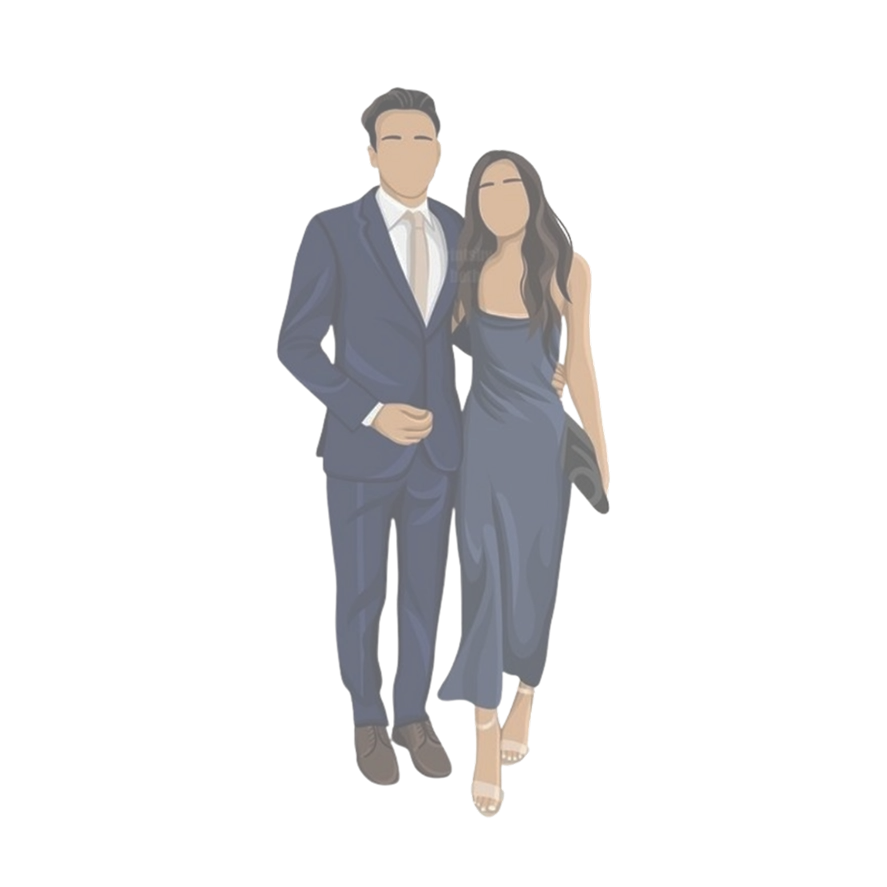
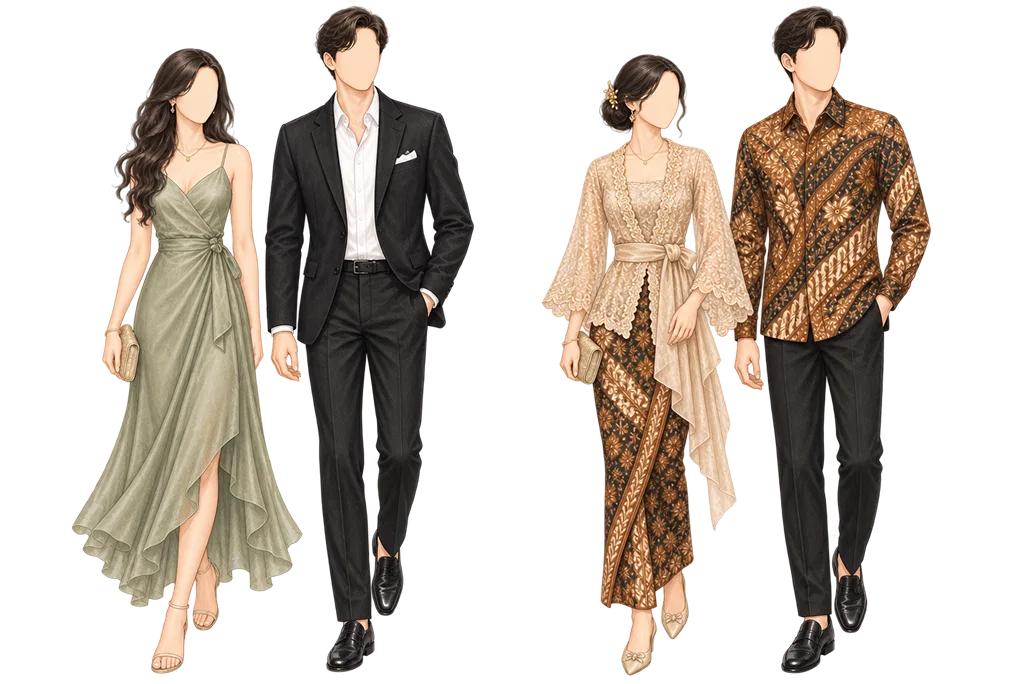
update section dresscode template atettrisna

diff --git a/src/app/[id]/page.tsx b/src/app/[id]/page.tsx
@@ -10,22 +10,15 @@ import { useEventContent } from "@/hooks/api/useEventContent";
 import { useEventSessionByPin } from "@/hooks/api/useEventSessionByPin";
 import { useCurrentGuest } from "@/hooks/api/useCurrentGuest";
 import { getTemplateNameFromId } from "@/lib/templateMap";
-import AtetHalim from "@/components/templates/Atet-Halim";
-import AlbertJessica from "@/components/templates/Albert-Jessica";
+import { TEMPLATE_REGISTRY, DEFAULT_TEMPLATE } from "@/lib/templateRegistry";
 
 export default function EventPage() {
   const router = useRouter();
   const { id } = useParams<{ id: string }>();
   const hasCheckedAccessRef = useRef(false);
 
-  // ═══════════════════════════════════════════════════════════════
-  // STEP 0: Preload Images (buat kasih makan progress ke LoadingScreen)
-  // ═══════════════════════════════════════════════════════════════
   const { progress } = usePreloader();
 
-  // ═══════════════════════════════════════════════════════════════
-  // STEP 1: Fetch Event By URL (GetCurrentEvent)
-  // ═══════════════════════════════════════════════════════════════
   const { getEventByUrl, eventByUrl, status, error } = useEventUrl();
 
   useEffect(() => {
@@ -33,27 +26,17 @@ export default function EventPage() {
     getEventByUrl(id);
   }, [id, getEventByUrl]);
 
-  // ═══════════════════════════════════════════════════════════════
-  // STEP 2: Check PIN Access (Private Event)
-  // ═══════════════════════════════════════════════════════════════
   useEffect(() => {
     if (!eventByUrl || hasCheckedAccessRef.current) return;
-
     hasCheckedAccessRef.current = true;
 
-    // Ambil PIN dari localStorage (disimpen dari [pin]/page.tsx)
     const savedPin = localStorage.getItem(`${id}-pin`);
-
-    // Kalau event private (eventAccess === 0) dan belum ada PIN, redirect ke input PIN
     if (eventByUrl.eventAccess === 0 && !savedPin) {
       window.location.replace(`/${id}/private`);
       return;
     }
   }, [eventByUrl, id]);
 
-  // ═══════════════════════════════════════════════════════════════
-  // STEP 3: Fetch Event Content (GetEventContent)
-  // ═══════════════════════════════════════════════════════════════
   const {
     getEventContent,
     eventContentByEventId,
@@ -66,9 +49,6 @@ export default function EventPage() {
     getEventContent(eventByUrl.id);
   }, [eventByUrl?.id, getEventContent]);
 
-  // ═══════════════════════════════════════════════════════════════
-  // STEP 4: Fetch Guest Data By PIN (GetCurrentGuest)
-  // ═══════════════════════════════════════════════════════════════
   const {
     getEventGuestByPin,
     eventGuestByPin,
@@ -78,104 +58,70 @@ export default function EventPage() {
 
   useEffect(() => {
     if (!id) return;
-
     const pin = localStorage.getItem(`${id}-pin`);
-
-    // Hanya fetch guest kalau ada PIN
     if (pin) {
-      // id di sini adalah URL slug (eventUrl), pin adalah string dari localStorage
       getEventGuestByPin(id, pin);
     }
   }, [id, getEventGuestByPin]);
 
-  // ═══════════════════════════════════════════════════════════════
-  // STEP 5: Fetch Session By PIN (GetGuestEventSessionByPinNew)
-  // ═══════════════════════════════════════════════════════════════
   const { getEventSessionByPin, eventSessionByPin, eventSessionByPinStatus } =
     useEventSessionByPin();
 
   useEffect(() => {
     if (!eventByUrl?.id) return;
-
     const pin = localStorage.getItem(`${id}-pin`);
-
-    // Hanya fetch session kalau ada PIN
     if (pin) {
       getEventSessionByPin(pin, eventByUrl.id);
     }
   }, [eventByUrl?.id, id, getEventSessionByPin]);
 
-  // ═══════════════════════════════════════════════════════════════
-  // STEP 6: Assemble All Data (Flat Structure + Guest)
-  // ═══════════════════════════════════════════════════════════════
   const assembledData = useMemo(() => {
     if (!eventByUrl || !eventContentByEventId) return null;
-
     const pin = localStorage.getItem(`${id}-pin`);
 
     return {
       dataEvent: eventByUrl,
-      dataContent: eventContentByEventId, 
-      dataSession: eventSessionByPin || [], 
+      dataContent: eventContentByEventId,
+      dataSession: eventSessionByPin || [],
       guest: eventGuestByPin || null,
       pin: pin || null,
       url: id,
     };
-  }, [
-    eventByUrl,
-    eventContentByEventId,
-    eventSessionByPin,
-    eventGuestByPin,
-    id,
-  ]);
+  }, [eventByUrl, eventContentByEventId, eventSessionByPin, eventGuestByPin, id]);
 
-  // ═══════════════════════════════════════════════════════════════
-  // Loading State
-  // ═══════════════════════════════════════════════════════════════
   if (status === "loading" || contentStatus === "loading") {
     return <LoadingScreen progress={progress} />;
   }
 
-  // ═══════════════════════════════════════════════════════════════
-  // Error State
-  // ═══════════════════════════════════════════════════════════════
   if (status === "error") {
     return <ErrorScreen message={error || "Event tidak ditemukan"} />;
   }
 
   if (contentStatus === "error") {
-    return (
-      <ErrorScreen message={contentError || "Konten event tidak ditemukan"} />
-    );
+    return <ErrorScreen message={contentError || "Konten event tidak ditemukan"} />;
   }
 
   if (guestStatus === "error") {
-    // Guest error nggak fatal, lanjutin aja dengan guest kosong
-    console.warn(
-      "Guest fetch gagal, lanjutin dengan guest kosong:",
-      guestError,
-    );
+    console.warn("Guest fetch gagal, lanjutin dengan guest kosong:", guestError);
   }
 
   if (eventSessionByPinStatus === "error") {
-    // Session error nggak fatal, lanjutin aja dengan session kosong
     console.warn("Session fetch gagal, lanjutin dengan session kosong");
   }
 
-  // ═══════════════════════════════════════════════════════════════
-  // No Data
-  // ═══════════════════════════════════════════════════════════════
   if (!assembledData) {
     return <ErrorScreen message="Event data tidak tersedia" />;
   }
 
-  // ═══════════════════════════════════════════════════════════════
-  // Render Template
-  // ═══════════════════════════════════════════════════════════════
+  const templateName = getTemplateNameFromId(eventByUrl?.templateId);
+  const TemplateComponent =
+    TEMPLATE_REGISTRY[templateName] ?? TEMPLATE_REGISTRY[DEFAULT_TEMPLATE];
+
   return (
-    <>
-    <AtetHalim data={assembledData} isPreview={false} dataValidation={null} />
-    <AlbertJessica/>
-    </>
+    <TemplateComponent
+      data={assembledData}
+      isPreview={false}
+      dataValidation={null}
+    />
   );
 }

diff --git a/src/components/templates/Atet-Halim/Dresscode.tsx b/src/components/templates/Atet-Halim/Dresscode.tsx
@@ -8,15 +8,17 @@ type DresscodeProps = {
 
 const Dresscode = ({ data }: DresscodeProps) => {
   return (
-    <section id="dresscode" className="relative w-full pt-[3vw] lg:pt-[3.30vw] ">
-
+    <section
+      id="dresscode"
+      className="relative w-full pt-[2.2vw] lg:pt-[3.30vw] "
+    >
       {/* BUNGA POJOK KIRI BAWAH */}
       <Image
         src="/images/Atet-Halim/Dresscode/BungaKirii.webp"
         alt="flower decoration"
-        width={286}
-        height={286}
-        className="absolute -bottom-[11vw] lg:-bottom-[12.5vw] -left-[5vw] lg:-left-0 w-[48vw] lg:w-[23.45vw] h-auto pointer-events-none z-30"
+        width={386}
+        height={386}
+        className="absolute -bottom-[36vw] lg:-bottom-[12vw] -left-[5vw] lg:-left-0 w-[42vw] lg:w-[23.45vw] h-auto pointer-events-none z-30"
       />
 
       {/* KONTEN */}
@@ -44,9 +46,9 @@ const Dresscode = ({ data }: DresscodeProps) => {
           <Image
             src="/images/Atet-Halim/Dresscode/OrnamentGaris.webp"
             alt="ornament"
-            width={230}
-            height={230}
-            className="w-[36.41vw] lg:w-[14.99vw] h-auto lg:-mt-[7px]"
+            width={350}
+            height={350}
+            className="w-[36.41vw] lg:w-[14.99vw] h-auto lg:-mt-[5px]"
           />
         </motion.div>
 
@@ -57,11 +59,10 @@ const Dresscode = ({ data }: DresscodeProps) => {
           whileInView="show"
           viewport={{ once: true, amount: 0.3 }}
           transition={{ duration: 1.5, ease: "easeOut" }}
-          className="font-athelas text-[3.59vw] lg:text-[1.45vw] text-[#402824] mt-[7vw] lg:mt-[3.30vw] leading-[1.6] lg:leading-[1.98vw]"
+          className="font-athelas text-[3.59vw] lg:text-[1.45vw] text-[#402824] mt-[12.8vw] lg:mt-[3.30vw] leading-[1.4] lg:leading-[1.98vw]"
         >
-          To support our anniversary theme, <br />
-          we request our dress to dress as follow on <br />
-          our special day:
+          GUESTS ARE ENCOURAGED <br className="lg:hidden" />
+          TO WEAR:
         </motion.p>
 
         {/* ILUSTRASI PASANGAN */}
@@ -71,7 +72,7 @@ const Dresscode = ({ data }: DresscodeProps) => {
           whileInView="show"
           viewport={{ once: true, amount: 0.3 }}
           transition={{ duration: 1.5, ease: "easeOut" }}
-          className="relative w-[56.67vw] lg:w-[24.11vw] h-[56.67vw] lg:h-[24.11vw] -mt-[0.5vw] lg:-mt-[5px]"
+          className="relative w-[63.67vw] lg:w-[31vw] h-[56.67vw] lg:h-[24.11vw] -mt-[1vw] lg:mt-[2.2vw]"
         >
           <Image
             src="/images/Atet-Halim/Dresscode/Human.webp"
@@ -88,9 +89,9 @@ const Dresscode = ({ data }: DresscodeProps) => {
           whileInView="show"
           viewport={{ once: true, amount: 0.3 }}
           transition={{ duration: 1.5, ease: "easeOut" }}
-          className="font-athelas text-[4.62vw] lg:text-[1.59vw] text-[#402824] -mt-[0.5vw] lg:mt-[6px]"
+          className="font-athelas text-[4.62vw] lg:text-[1.98vw] text-[#402824] -mt-[1.1vw] lg:mt-[2.2vw]"
         >
-          FORMAL DRESS/TUXEDO
+          FORMAL ATTIRE
         </motion.h3>
       </div>
     </section>

diff --git a/src/components/templates/Atet-Halim/Rsvp.tsx b/src/components/templates/Atet-Halim/Rsvp.tsx
@@ -36,7 +36,7 @@ const RsvpSectionDesign = () => {
 
       <section
         id="rsvp"
-        className="relative w-full overflow-hidden pt-[19vw] lg:pt-[11.6vw] pb-[41.54vw] lg:pb-[10.44vw]"
+        className="relative w-full overflow-hidden pt-[19vw] lg:pt-[10.8vw] pb-[41.54vw] lg:pb-[10.44vw]"
       >
         {/* BUNGA POJOK KANAN ATAS */}
         <Image
@@ -44,7 +44,7 @@ const RsvpSectionDesign = () => {
           alt="flower decoration"
           width={450}
           height={450}
-          className="absolute -top-[3.85vw] lg:-bottom-[0px] right-0 w-[33.08vw] lg:w-[15.85vw] h-auto pointer-events-none z-30"
+          className="absolute top-[4.5vw] lg:-bottom-[0px] right-0 w-[33.08vw] lg:w-[15.85vw] h-auto pointer-events-none z-30"
         />
 
         {/* BUNGA POJOK KIRI BAWAH */}

diff --git a/src/lib/templateRegistry.tsx b/src/lib/templateRegistry.tsx
@@ -1,0 +1,9 @@
+import AtetHalim from "@/components/templates/Atet-Halim";
+import AlbertJessica from "@/components/templates/Albert-Jessica";
+
+export const TEMPLATE_REGISTRY: Record<string, React.ComponentType<any>> = {
+  "Atet-Halim": AtetHalim,
+  "Albert-Jessica": AlbertJessica,
+};
+
+export const DEFAULT_TEMPLATE = "Atet-Halim";
